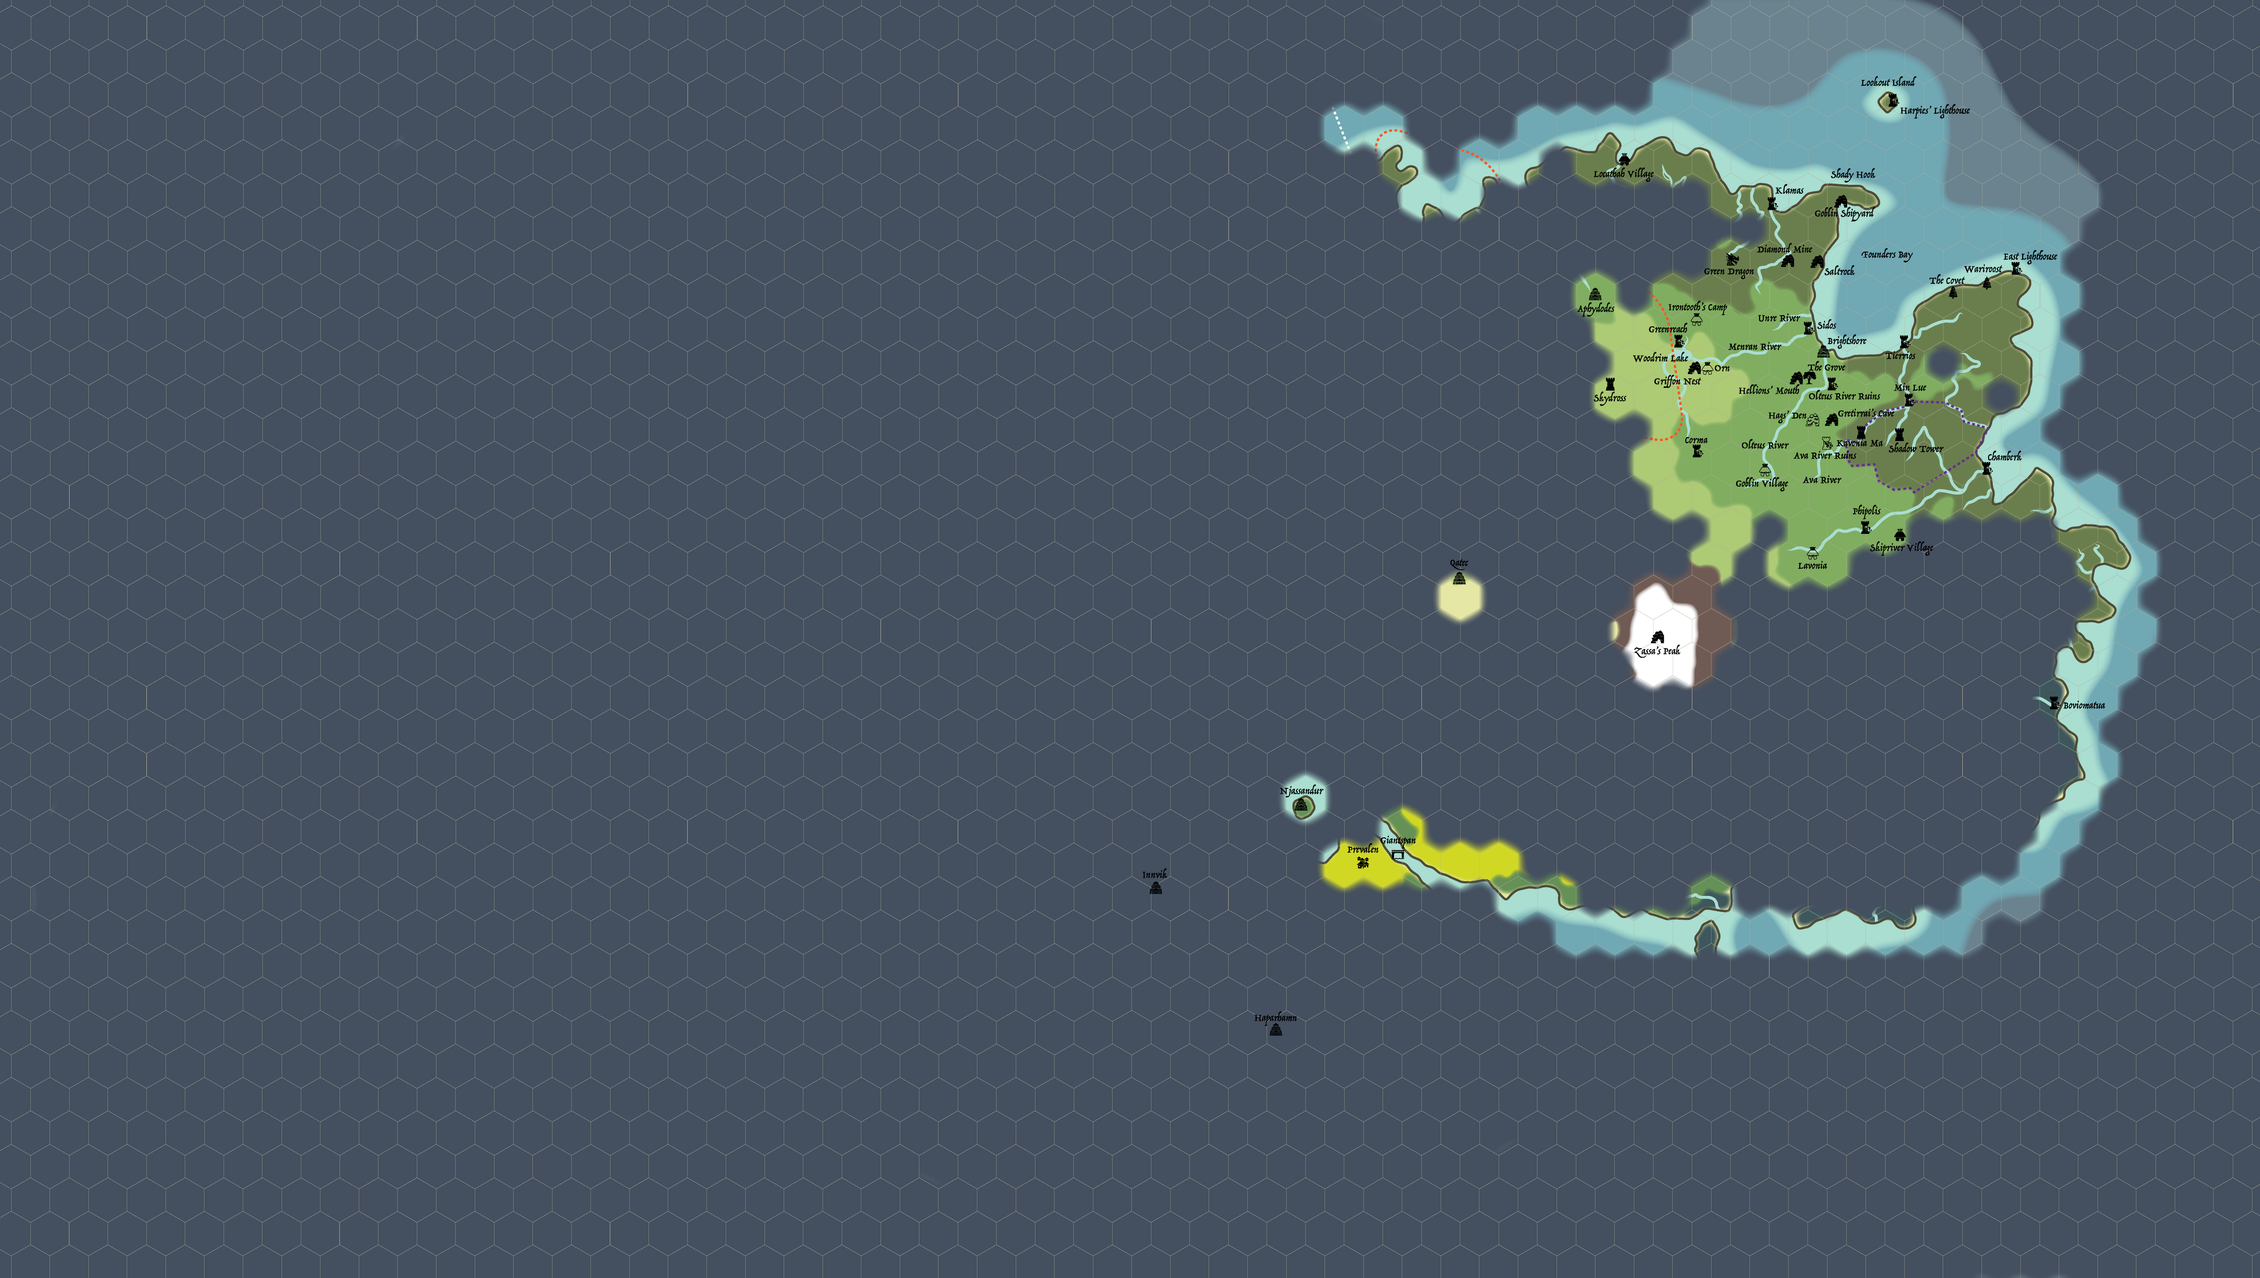
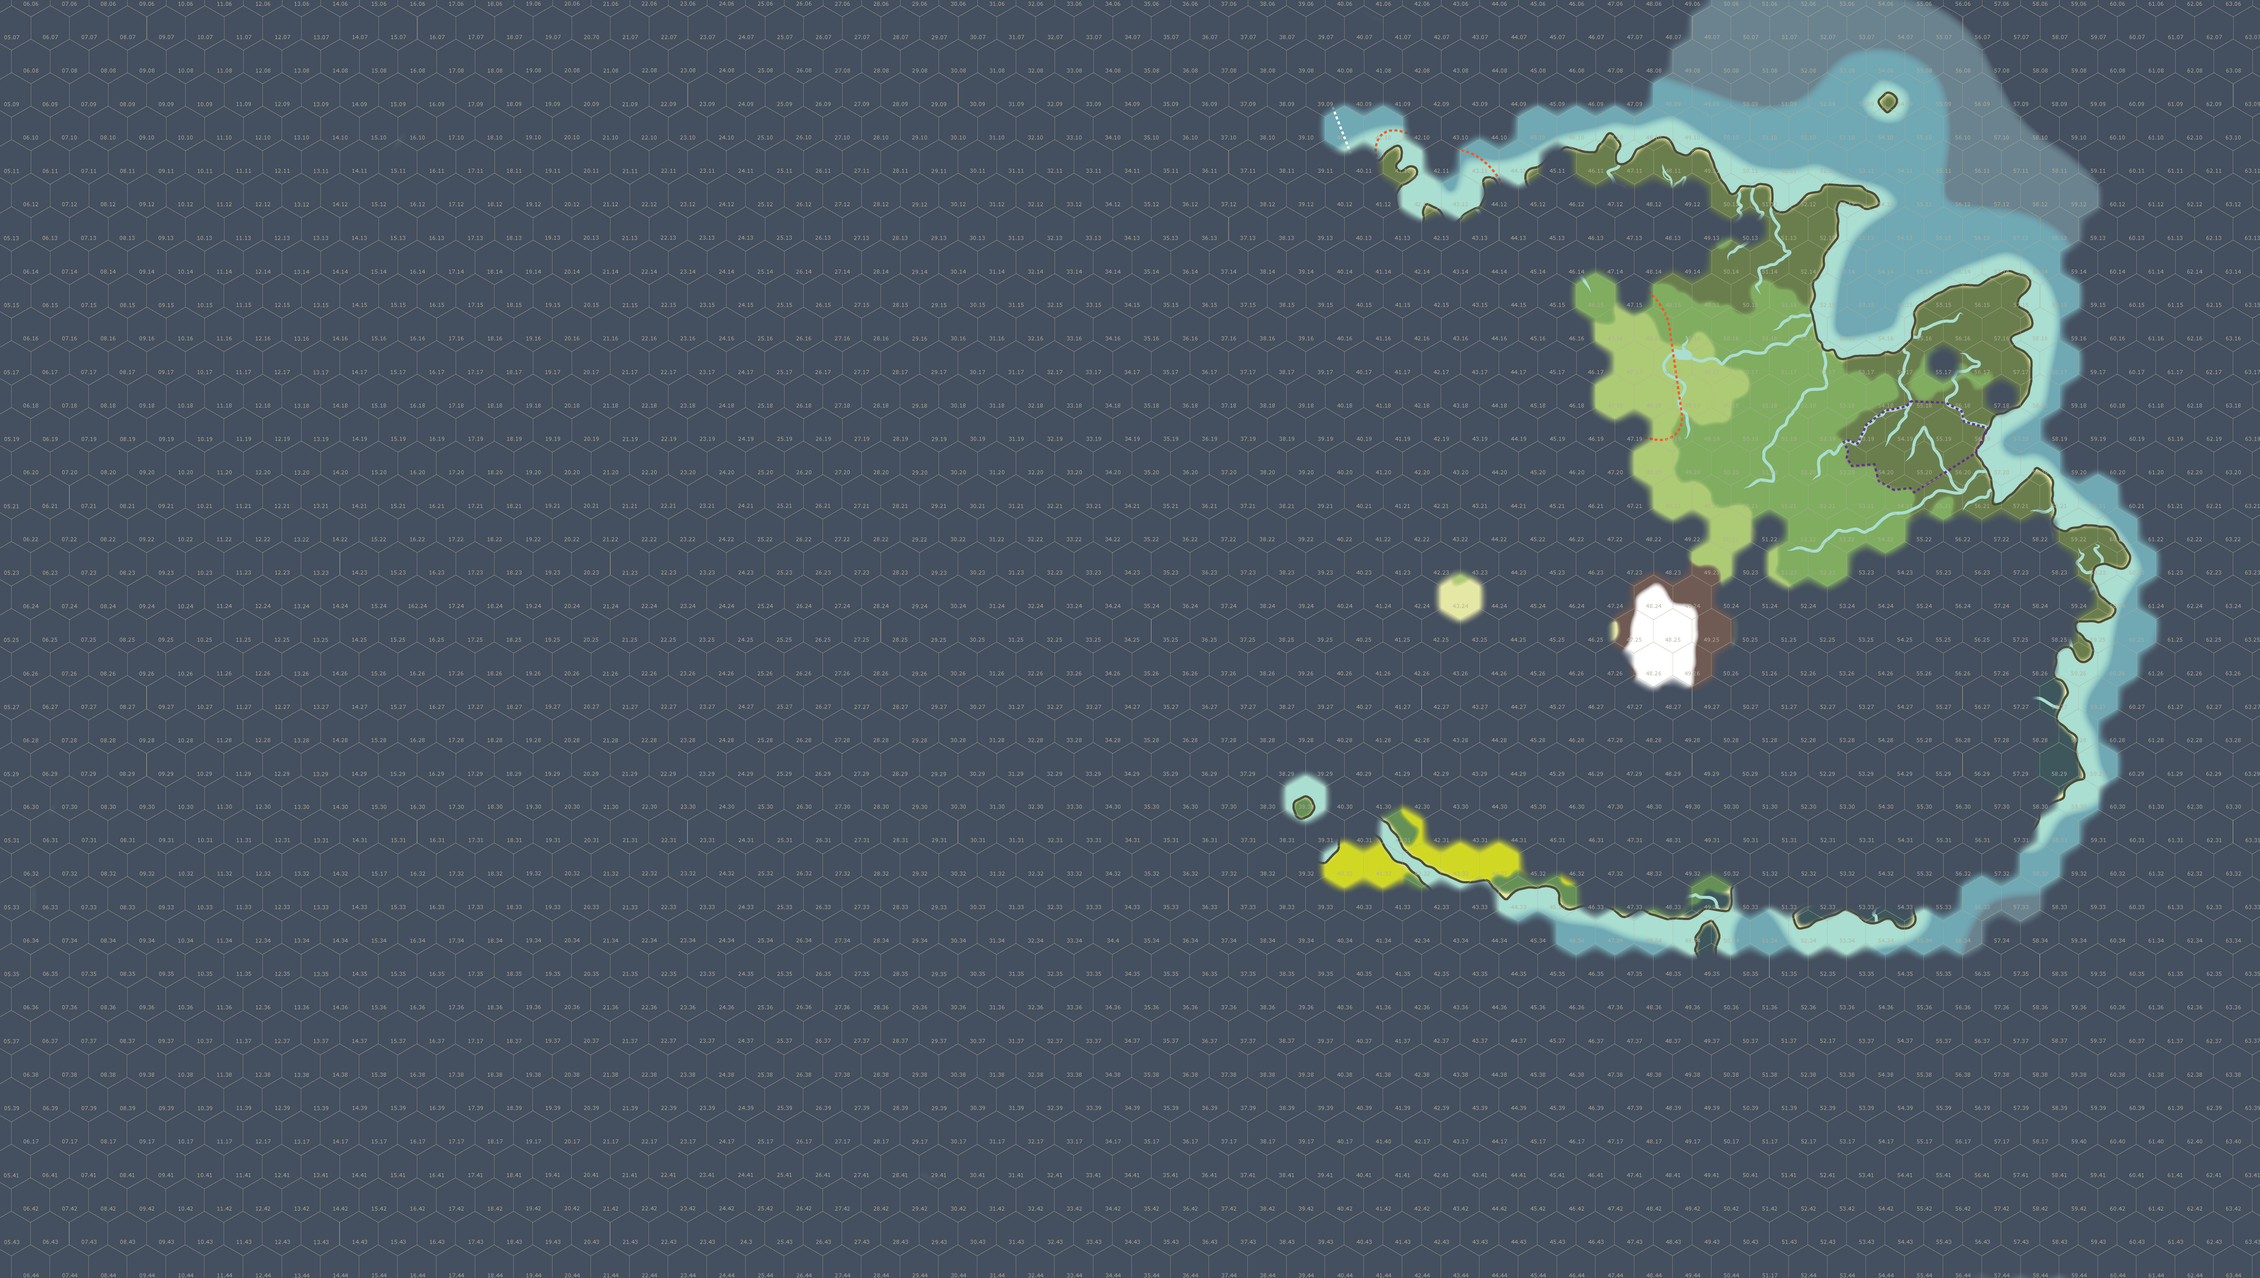
v1.09
Icon Updates:
- Added: Bridge, CaveOutline, Village

Continent Map updates:
- Changed background image
- Changed Dark Forest to Shadowood
- Added wyrmfrostClass for label
- Created code blocks for 3 new icons
- Changed previously variable called 'villageIcon' and 'villageOutlineIcon' to 'hutIcon' and 'hutOutlineIcon' respectively
- Updated various URLs which were outdated (referenced ...:lore:wilderness:... now changed to ...:lorica:...)
- Added the following to the map: Giantspan, Locathah Village, Njassandur, Qatac, Prevalen, Temple Ruins, Haparhamn, Innvik
- Updated popup info for Hellino's Mouth and Grove

README.md Updates:
- Added v1.09 to version history

diff --git a/continentmap.html b/continentmap.html
@@ -86,7 +86,7 @@
 			border-right-color: transparent;
 		}
 		
-		.darkForestClass {
+		.shadowoodClass {
 			background: none;
 			border: none;
 			box-shadow: none;
@@ -98,11 +98,11 @@
 			text-shadow: white 0.1em 0.1em 0.2em;
 		}
 		
-		.leaflet-tooltip-left.darkForestClass::before{
+		.leaflet-tooltip-left.shadowoodClass::before{
 			border-left-color: transparent;
 		}
 		
-		.leaflet-tooltip-right.darkForestClass::before{
+		.leaflet-tooltip-right.shadowoodClass::before{
 			border-right-color: transparent;
 		}
 		
@@ -123,6 +123,25 @@
 		}
 		
 		.leaflet-tooltip-right.stalwartShieldClass::before{
+			border-right-color: transparent;
+		}
+		
+		.wyrmfrostClass {background: none;
+			border: none;
+			box-shadow: none;
+			font-size: 12px;
+			color: white;
+			font-family: "Copperplate Gothic Light", Palatino, serif;
+			font-style: italics;
+			text-align: center;
+			text-shadow: white 0.1em 0.1em 0.2em;
+		}
+		
+		.leaflet-tooltip-left.wyrmfrostClass::before{
+			border-left-color: transparent;
+		}
+		
+		.leaflet-tooltip-right.wyrmfrostClass::before{
 			border-right-color: transparent;
 		}
 		
@@ -248,7 +267,18 @@
 	
 	<!-- Custom markers -->
 	// ORDER:
-	// brightshoreIcon, caveIcon, dragonIcon, goblinIcon, ruinsIcon, ruinsOutlineIcon, towerIcon, treeLeafyIcon, treePineIcon, villageIcon, villageOutlineIcon
+	// bridgeIcon, brightshoreIcon, caveIcon, caveOutlineIcon, dragonIcon, goblinIcon, hutIcon, hutOutlineIcon,
+	// ruinsIcon, ruinsOutlineIcon, towerIcon, treeLeafyIcon, treePineIcon, villageIcon
+	
+	var bridgeIcon = new L.Icon({
+		iconUrl: './icon_images/Bridge.png',
+		shadowUrl: './icon_images/marker-shadow.png',
+		iconSize: [32, 30],
+		iconAnchor: [12, 30],
+		popupAnchor: [1, -34],
+		shadowSize: [41, 41],
+		shadowAnchor: [17, 42]
+	});
 	
 	var brightshoreIcon = new L.Icon({
 		iconUrl: './icon_images/BrightshoreTower.png',
@@ -270,6 +300,13 @@
 		shadowAnchor: [04, 42]
 	});
 	
+	var caveOutlineIcon = new L.Icon({
+		iconUrl: './icon_images/CaveOutline.png',
+		iconSize: [36, 28],
+		iconAnchor: [12, 30],
+		popupAnchor: [1, -34]
+	});
+	
 	var dragonIcon = new L.Icon({
 		iconUrl: './icon_images/Dragon.png',
 		shadowUrl: './icon_images/marker-shadow.png',
@@ -288,6 +325,23 @@
 		popupAnchor: [1, -34],
 		shadowSize: [41, 41],
 		shadowAnchor: [12, 42]
+	});
+	
+	var hutIcon = new L.Icon({
+		iconUrl: './icon_images/Hut.png',
+		shadowUrl: './icon_images/marker-shadow.png',
+		iconSize: [25, 35],
+		iconAnchor: [12, 30],
+		popupAnchor: [1, -34],
+		shadowSize: [41, 41],
+		shadowAnchor: [04, 42]
+	});
+	
+	var hutOutlineIcon = new L.Icon({
+		iconUrl: './icon_images/HutOutline.png',
+		iconSize: [31, 27],
+		iconAnchor: [12, 30],
+		popupAnchor: [1, -34]
 	});
 	
 	var ruinsIcon = new L.Icon({
@@ -338,20 +392,13 @@
 	});
 	
 	var villageIcon = new L.Icon({
-		iconUrl: './icon_images/Hut.png',
+		iconUrl: './icon_images/Village.png',
 		shadowUrl: './icon_images/marker-shadow.png',
-		iconSize: [25, 35],
+		iconSize: [40, 30],
 		iconAnchor: [12, 30],
 		popupAnchor: [1, -34],
 		shadowSize: [41, 41],
-		shadowAnchor: [04, 42]
-	});
-	
-	var villageOutlineIcon = new L.Icon({
-		iconUrl: './icon_images/HutOutline.png',
-		iconSize: [31, 27],
-		iconAnchor: [12, 30],
-		popupAnchor: [1, -34]
+		shadowAnchor: [12, 42]
 	});
 	
 	<!-- COASTLINE -->
@@ -362,7 +409,7 @@
 	"<i>Brightshore is a young, but thriving colony situated at the tip of Founders Bay on the northeastern coast. Established 23 years ago, "+
 	"it was built on top of and within the ruins of an ancient city of unknown origin. Since its founding, the colony has attracted several "+
 	"waves of new settlers from other lands.</i></br></br>"+
-	"For more information, see <a href='http://brightshore.imboardgames.com/wiki/doku.php?id=brightshore:lore:hub_city'>Brightshore Wiki</a>");
+	"For more information, see <a href='http://brightshore.imboardgames.com/wiki/doku.php?id=brightshore:town'>Brightshore Wiki</a>");
 	
 	// Chamberk
 	var chamberk = L.latLng([77.41, 378.84]);
@@ -373,17 +420,29 @@
 	var eastLighthouse = L.latLng([171.59, 392.16]);
 	L.marker(eastLighthouse, {icon: towerIcon}).addTo(map).bindPopup("<b>East Lighthouse</b>");
 	
+	// Giantspan
+	var giantspan = L.latLng([-102.04, 118.125]);
+	L.marker(giantspan, {icon: bridgeIcon}).addTo(map).bindPopup("<b>Giantspan</b>")
+	
 	// Goblin Shipyard
 	var goblinShipyard = L.latLng([203.37, 312.75]);
 	L.marker(goblinShipyard, {icon: goblinIcon}).addTo(map).bindPopup("<b>Goblin Shipyard</b></br>"+
 	"<i>A cove on the southern cliffs of Shady Hook. Once the shipyard of Magu's army.</i></br></br>"+
-	"For more information, see <a href='http://brightshore.imboardgames.com/wiki/doku.php?id=brightshore:lore:wilderness:goblin_shipyard'>Brightshore Wiki</a>");
+	"For more information, see <a href='http://brightshore.imboardgames.com/wiki/doku.php?id=brightshore:lorica:goblin_shipyard'>Brightshore Wiki</a>");
 	
 	// Klamas
 	var klamas = L.latLng([201.27, 284.75]);
 	L.marker(klamas, {icon: ruinsIcon}).addTo(map).bindPopup("<b>Klamas</b></br>"+
 	"<i>The ruins of a once great library and the city that was built around it. 4 days north of Brightshore.</i></br></br>"+
-	"For more information, see <a href='http://brightshore.imboardgames.com/wiki/doku.php?id=brightshore:lore:wilderness:klamas_library'>Brightshore Wiki</a>");
+	"For more information, see <a href='http://brightshore.imboardgames.com/wiki/doku.php?id=brightshore:lorica:klamas'>Brightshore Wiki</a>");
+	
+	// Locathah Village
+	var locathahVillage = L.latLng([222.02, 218.25]);
+	L.marker(locathahVillage, {icon: hutIcon}).addTo(map).bindPopup("<b>Locathah Village</b>");
+	
+	// Njassandur
+	var njassandur = L.latLng([-78.74, 75]);
+	L.marker(njassandur, {icon: brightshoreIcon}).addTo(map).bindPopup("<b>Njassandur</b>");
 	
 	// Saltrock
 	var saltrock = L.latLng([176.28, 304.75]);
@@ -417,9 +476,13 @@
 	
 	// Orn
 	var orn = L.latLng([127.20, 257.38]);
-	L.marker(orn, {icon: villageOutlineIcon}).addTo(map).bindPopup("<b>Orn</b></br>"+
+	L.marker(orn, {icon: hutOutlineIcon}).addTo(map).bindPopup("<b>Orn</b></br>"+
 	"<i>Once a farming village of hobgoblins and orcs, reduced to a smoldering ruin by the warforged.</i></br></br>"+
 	"For more information, see <a href='http://brightshore.imboardgames.com/wiki/doku.php?id=brightshore:lorica:orn'>Brightshore Wiki</a>");
+	
+	// Qatac
+	var qatac = L.latLng([26.76, 145.375]);
+	L.marker(qatac, {icon: brightshoreIcon}).addTo(map).bindPopup("<b>Qatac</b>");
 	
 	// Skydross
 	var skydross = L.latLng([115.81, 213.0]);
@@ -434,7 +497,7 @@
 	var harpiesLighthouse = L.latLng([251.47, 338.41]);
 	L.marker(harpiesLighthouse, {icon: ruinsIcon}).addTo(map).bindPopup("<b>Harpies' Lighthouse</b></br>"+
 	"<i>Toppled ruined tower on Lookout Island: a small island to the north of Founders Bay.</i></br></br>"+
-	"For more information, see <a href='http://brightshore.imboardgames.com/wiki/doku.php?id=brightshore:lore:wilderness:lookout_island'>Brightshore Wiki</a>");
+	"For more information, see <a href='http://brightshore.imboardgames.com/wiki/doku.php?id=brightshore:lorica:lookout_island'>Brightshore Wiki</a>");
 	
 	// Lookout Island
 	var lookoutIsland = L.latLng([255.34, 335.59]);
@@ -451,15 +514,26 @@
 	
 	<!-- SAVANNA -->
 	
+	// Prevalen
+	var prevalen = L.latLng([-105.85, 103.25]);
+	L.marker(prevalen, {icon: villageIcon}).addTo(map).bindPopup("<b>Prevalen</b></br>"+
+	"<i>A distant city with no government and a mysterious Harvest.</i>");
+	
 	
 	<!-- TROPICS -->
 	
+	// Boviomatua
 	var boviomatua = L.latLng([-33.43, 409.63]);
 	L.marker(boviomatua, {icon: ruinsIcon}).addTo(map).bindPopup("<b>Boviomatua</b></br>"+
 	"<i>The ruins of an ancient coastal city found in the jungles to the far southeast.</i>");
 	
+	// Goodleaf Jungle
 	var goodleafJungle = L.latLng([-24.06, 410.63]);
 	L.marker(goodleafJungle, {icon: noIcon}).bindTooltip("Goodleaf Jungle", {permanent: true, offset: [0, 0], className: 'landClass'}).openTooltip().addTo(map);
+	
+	// Temple Ruins
+	var templeRuins = L.latLng([-59.64, 415.5]);
+	L.marker(templeRuins, {icon: ruinsIcon}).addTo(map).bindPopup("<b>Temple Ruins</b>");
 	
 	
 	<!-- WATER -->
@@ -512,7 +586,7 @@
 	var avaRiverRuins = L.latLng([88.75, 307.625]);
 	L.marker(avaRiverRuins, {icon: ruinsOutlineIcon}).addTo(map).bindPopup("<b>Ava River Ruins</b></br>"+
 	"<i>Once a ruined city to the southeast of Brightshore on the banks of the Ava River, this site was wiped off the map when Magu awakened a colossal construct that emerged from underneath it and then stomped through it.</i></br></br>"+
-	"For more information, see <a href='http://brightshore.imboardgames.com/wiki/doku.php?id=brightshore:lore:wilderness:ava_river_ruins'>Brightshore Wiki</a>");
+	"For more information, see <a href='http://brightshore.imboardgames.com/wiki/doku.php?id=brightshore:lorica:ava_river_ruins'>Brightshore Wiki</a>");
 	
 	// Corma
 	var corma = L.latLng([86.28, 251.19]);
@@ -523,19 +597,15 @@
 	var covet = L.latLng([160.4, 363.5]);
 	L.marker(covet, {icon: treePineIcon}).addTo(map).bindPopup("<b>The Covet</b>");
 	
-	// Dark Forest
-	var darkForest = L.latLng([92.57, 370.00]);
-	L.marker(darkForest, {icon: noIcon}).bindTooltip("Dark Forest", {permanent: true, offset: [0, 0], className: 'darkForestClass'}).openTooltip().addTo(map);
-	
 	// Diamond Mine
 	var diamondMine = L.latLng([176.64, 291.625]);
 	L.marker(diamondMine, {icon: caveIcon}).addTo(map).bindPopup("<b>Diamond Mine</b>");
 	
 	// Goblin Village
 	var goblinVillage = L.latLng([79.53, 280.84]);
-	//L.marker(goblinVillage, {icon: transparentVillageIcon}).addTo(map).bindPopup("<b>Goblin Village</b></br>"+
-	L.marker(goblinVillage, {icon: villageOutlineIcon}).addTo(map).bindPopup("<b>Goblin Village</b></br>"+
-	//L.marker(goblinVillage, {icon: villageIcon}).addTo(map).bindPopup("<b>Goblin Village</b></br>"+
+	//L.marker(goblinVillage, {icon: transparenthutIcon}).addTo(map).bindPopup("<b>Goblin Village</b></br>"+
+	L.marker(goblinVillage, {icon: hutOutlineIcon}).addTo(map).bindPopup("<b>Goblin Village</b></br>"+
+	//L.marker(goblinVillage, {icon: hutIcon}).addTo(map).bindPopup("<b>Goblin Village</b></br>"+
 	"<i>Adventurers found (and razed) a village of goblins in the woods after the goblin invasion of Brightshore.</i>");
 	
 	// Green Dragon's Lair
@@ -550,22 +620,22 @@
 	// Grove
 	var grove = L.latLng([122.81, 301.38]);
 	L.marker(grove, {icon: treeLeafyIcon}).addTo(map).bindPopup("<b>The Grove</b></br>"+
-	"<i>A patch of forest once haunted by a hulder. 2 days southwest of Brightshore. It has since been renamed Thorin's Grove and turned into a haven known for druids and other likeminded adventurers from Brightshore.</i></br></br>"+
-	"For more information, see <a href='http://brightshore.imboardgames.com/wiki/doku.php?id=brightshore:lore:wilderness:hulders_wood'>Brightshore Wiki</a>");
+	"<i>Once haunted by a hulder, now a haven for druids and other likeminded adventurers from Brightshore.</i></br></br>"+
+	"For more information, see <a href='http://brightshore.imboardgames.com/wiki/doku.php?id=brightshore:lorica:grove'>Brightshore Wiki</a>");
 	
 	// Hags' Den
 	var hagsDen = L.latLng([102.66, 302.125]);
-	L.marker(hagsDen, {icon: caveIcon}).addTo(map).bindPopup("<b>Hags' Den</b>");
+	L.marker(hagsDen, {icon: caveOutlineIcon}).addTo(map).bindPopup("<b>Hags' Den</b>");
 	
 	// Hellion's Mouth
 	var hellionsMouth = L.latLng([121.5, 295.97]);
 	L.marker(hellionsMouth, {icon: caveIcon}).addTo(map).bindPopup("<b>Hellion's Mouth</b></br>"+
-	"<i>A cave 2 days southwest of Brightshore. Contained a portal to the Abyss (now sealed).</i></br></br>"+
-	"For more information, see <a href='http://brightshore.imboardgames.com/wiki/doku.php?id=brightshore:lore:wilderness:hellions_mouth'>Brightshore Wiki</a>");
+	"<i>This cave housed a demon cult and a portal to the Abyss (now sealed).</i></br></br>"+
+	"For more information, see <a href='http://brightshore.imboardgames.com/wiki/doku.php?id=brightshore:lorica:hellions_mouth'>Brightshore Wiki</a>");
 	
 	// Irontooth's Camp
 	var irontoothCamp = L.latLng([148.97, 250.88]);
-	L.marker(irontoothCamp, {icon: villageOutlineIcon}).addTo(map).bindPopup("<b>Irontooth's Camp</b></br>"+
+	L.marker(irontoothCamp, {icon: hutOutlineIcon}).addTo(map).bindPopup("<b>Irontooth's Camp</b></br>"+
 	"<i>Formerly the camp of Chief Irontooth. Fell to the warforged, now abandoned.</i></br></br>"+
 	"For more information, see <a href='http://brightshore.imboardgames.com/wiki/doku.php?id=brightshore:npcs:irontooth'>Brightshore Wiki</a>");
 	
@@ -576,7 +646,7 @@
 	
 	// Lavonia
 	var lavonia = L.latLng([39.65, 298.13]);
-	L.marker(lavonia, {icon: villageOutlineIcon}).addTo(map).bindPopup("<b>Lavonia</b>");
+	L.marker(lavonia, {icon: hutOutlineIcon}).addTo(map).bindPopup("<b>Lavonia</b>");
 	
 	// Mannimloth
 	var mannimloth = L.latLng([157.45, 374.81]);
@@ -586,13 +656,13 @@
 	var minLue = L.latLng([110.56, 344.16]);
 	L.marker(minLue, {icon: ruinsIcon}).addTo(map).bindPopup("<b>Min Lue</b></br>"+
 	"<i>A large ruined city 3 days southeast of Brightshore on the Ava River. Surrounded by fields of bones and inhabited by phantoms and undead creatures.</i></br></br>"+
-	"For more information, see <a href='http://brightshore.imboardgames.com/wiki/doku.php?id=brightshore:lore:wilderness:min_lue'>Brightshore Wiki</a>");
+	"For more information, see <a href='http://brightshore.imboardgames.com/wiki/doku.php?id=brightshore:lorica:min_lue'>Brightshore Wiki</a>");
 	
 	// Olteus River Ruins
 	var olteusRiverRuins = L.latLng([117.91, 309.84]);
 	L.marker(olteusRiverRuins, {icon: ruinsIcon}).addTo(map).bindPopup("<b>Olteus River Ruins</b></br>"+
 	"<i>A ruined city 1 day south of Brightshore on the eastern bank of the Olteus River. Explored early on.</i></br></br>"+
-	"For more information, see <a href='http://brightshore.imboardgames.com/wiki/doku.php?id=brightshore:lore:wilderness:olteus_river_ruins'>Brightshore Wiki</a>");
+	"For more information, see <a href='http://brightshore.imboardgames.com/wiki/doku.php?id=brightshore:lorica:olteus_river_ruins'>Brightshore Wiki</a>");
 	
 	// Phipolis
 	var phipolis = L.latLng([48.96, 325.81]);
@@ -603,15 +673,19 @@
 	var shadowTower = L.latLng([94.47, 340.91]);
 	L.marker(shadowTower, {icon: towerIcon}).addTo(map).bindPopup("<b>Shadow Tower</b>");
 	
+	// Shadowood
+	var shadowood = L.latLng([92.57, 370.00]);
+	L.marker(shadowood, {icon: noIcon}).bindTooltip("Shadowood", {permanent: true, offset: [0, 0], className: 'shadowoodClass'}).openTooltip().addTo(map);
+	
 	// Sidos
 	var sidos = L.latLng([144.41, 300.84]);
 	L.marker(sidos, {icon: ruinsIcon}).addTo(map).bindPopup("<b>Sidos</b></br>"+
 	"<i>A ruined city 1 day north of Brightshore. Explored early on. Contains a teleportation circle, now destroyed.</i></br></br>"+
-	"For more information, see <a href='http://brightshore.imboardgames.com/wiki/doku.php?id=brightshore:lore:wilderness:sidos'>Brightshore Wiki</a>");
+	"For more information, see <a href='http://brightshore.imboardgames.com/wiki/doku.php?id=brightshore:lorica:sidos'>Brightshore Wiki</a>");
 	
 	// Skipriver Village
 	var skipriverVillage = L.latLng([46.83, 340.875]);
-	L.marker(skipriverVillage, {icon: villageIcon}).addTo(map).bindPopup("<b>Skipriver Village</b></br>"+
+	L.marker(skipriverVillage, {icon: hutIcon}).addTo(map).bindPopup("<b>Skipriver Village</b></br>"+
 	"<i>A village of nomadic halflings native to Lorica.</i>");
 	
 	// Stalwart Shield
@@ -621,8 +695,20 @@
 	// Wariroost
 	var wariroost = L.latLng([165.75, 379.19]);
 	L.marker(wariroost, {icon: treePineIcon}).addTo(map).bindPopup("<b>Wariroost</b>");
-
 	
+	// Wyrmfrost
+	var wyrmfrost = L.latLng([239.98, 66.00]);
+	L.marker(wyrmfrost, {icon: noIcon}).bindTooltip("Wyrmfrost", {permanent: true, offset: [0, 0], className: 'wyrmfrostClass'}).openTooltip().addTo(map);
+	
+	<!-- UNKNOWN -->
+
+	// Haparhamn
+	var haparhamn = L.latLng([-184.6, 65.375]);
+	L.marker(haparhamn, {icon: brightshoreIcon}).addTo(map).bindPopup("<b>Haparhamn</b>");
+	
+	// Innvik
+	var innvik = L.latLng([-119.0, 10.63]);
+	L.marker(innvik, {icon: brightshoreIcon}).addTo(map).bindPopup("<b>Innvik</b>");
 	
 	
 	

diff --git a/README.md b/README.md
@@ -10,6 +10,8 @@ We are still working on the best way to mature this project, including dedicated
 
 ## Version History
 
+v1.09: 01-07-2020
+
 v1.08: 7 Jan 2020, major map reveal
 
 v1.07: 01-05-2020
